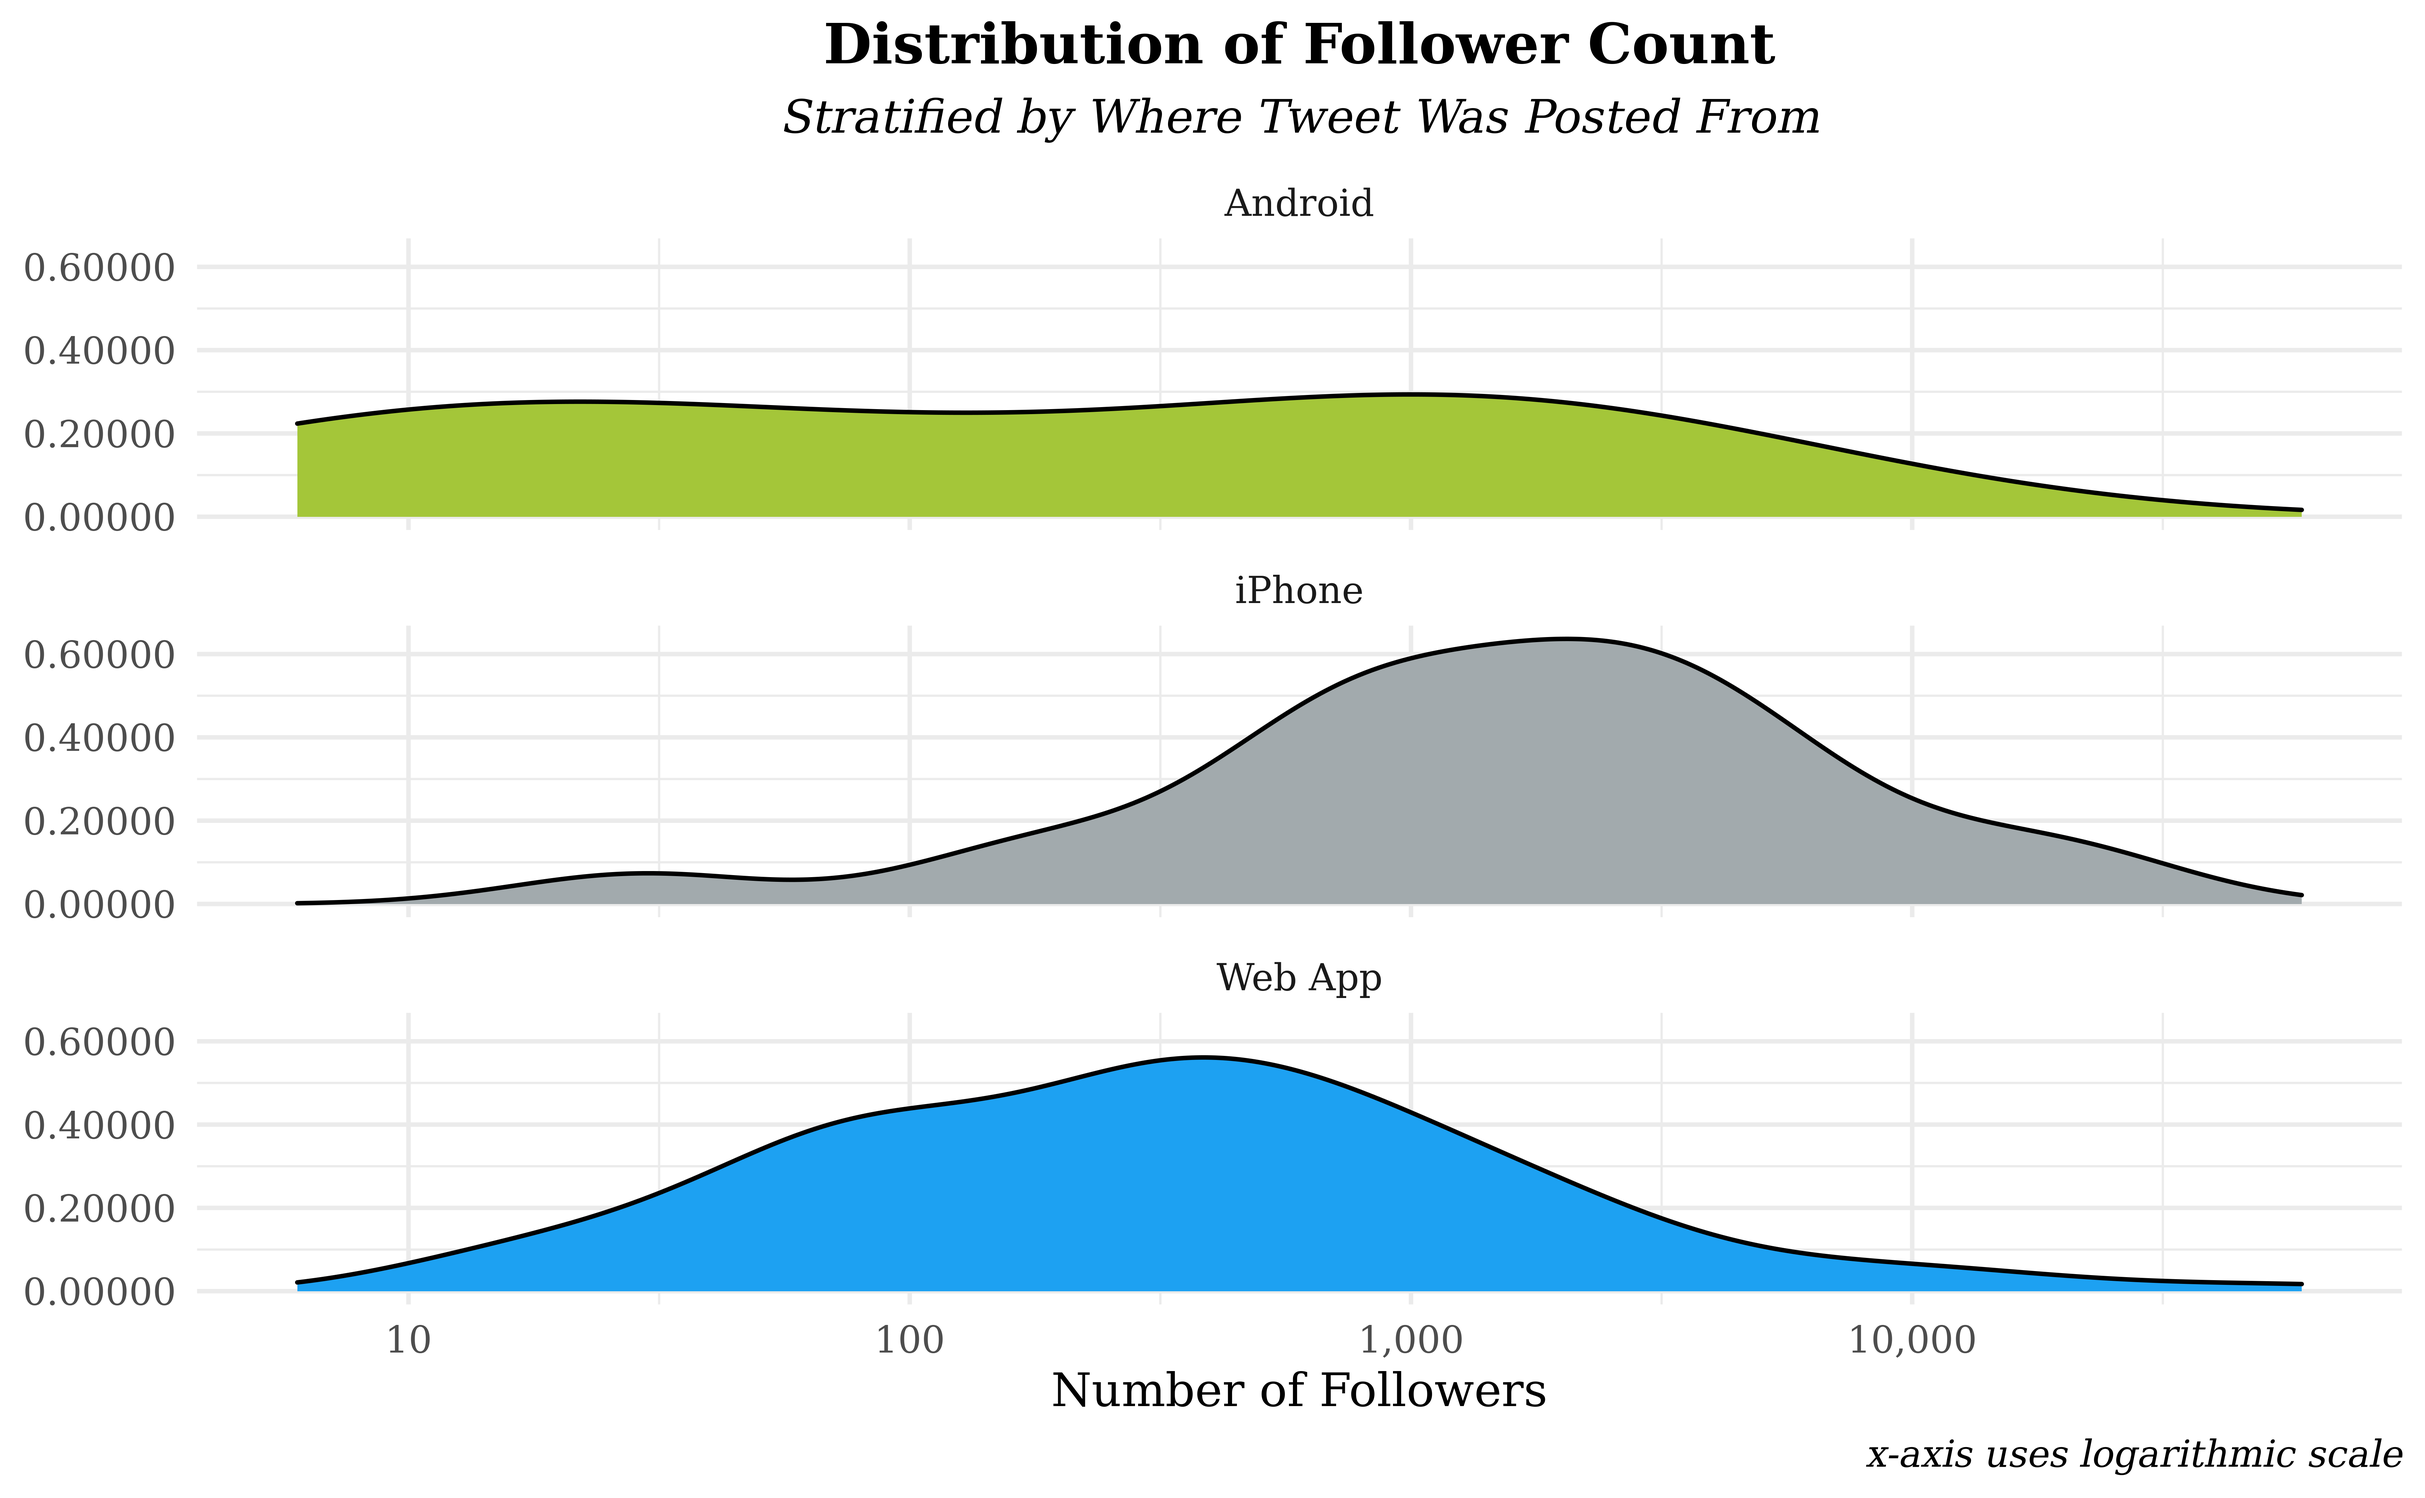
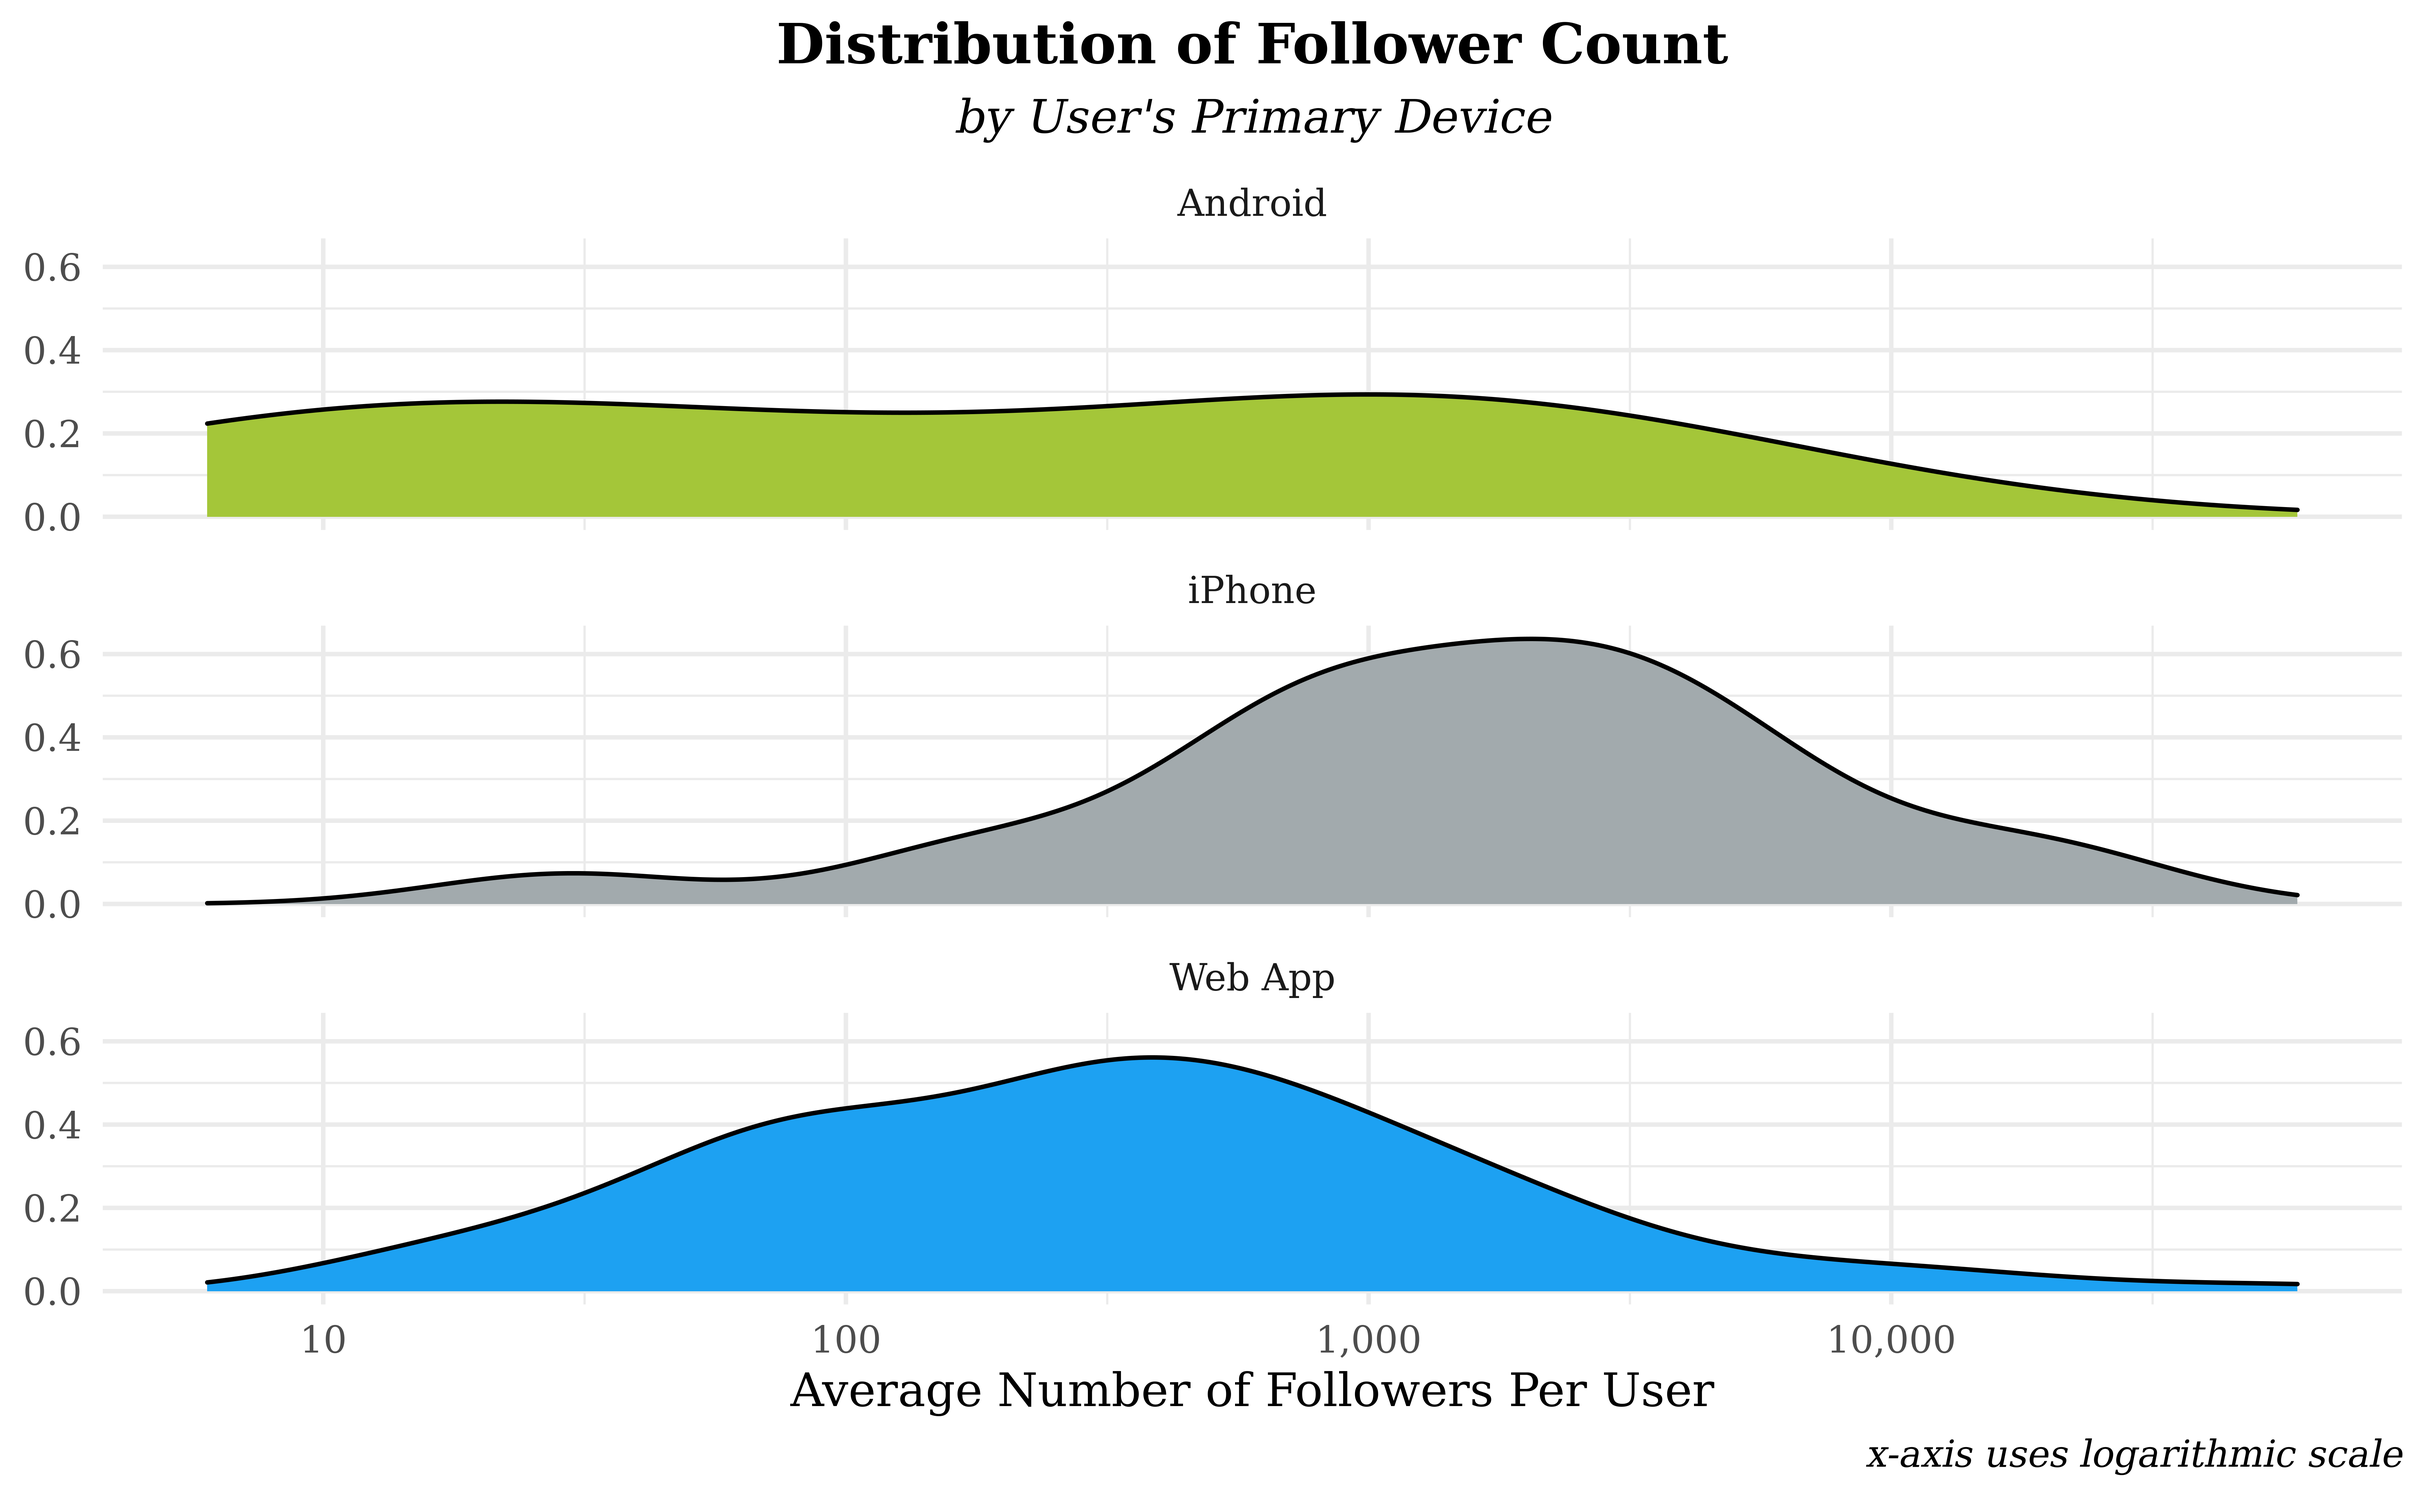
Edited labels on Q2 plots

diff --git a/README.md b/README.md
@@ -507,7 +507,7 @@ ggplot(data = tweets_device, aes(x = like_count, fill = devicetype)) +
   scale_x_log10() +
   labs(
     title = "Distribution of Likes",
-    subtitle = "Stratified by Where Tweet Was Posted From",
+    subtitle = "by Device Tweet Was Posted From",
     caption = "x-axis uses logarithmic scale (tweets with 0 likes are ommited)",
     x = "Number of Likes",
     y = NULL 
@@ -536,12 +536,13 @@ ggplot(
   theme_minimal() +
   scale_x_log10(labels = label_number(big.mark = ",")) +
   scale_fill_manual(values = c("#a4c639", "#A2AAAD", "#1DA1F2")) +
-  scale_y_continuous(labels = label_number(accuracy = .00001)) +
+  scale_y_continuous(labels = label_number(accuracy = .1)) +
   labs(
     title = "Distribution of Follower Count",
-    subtitle = "Stratified by Where Tweet Was Posted From",
-    x = "Number of Followers",
-    y = NULL, caption = "x-axis uses logarithmic scale"
+    subtitle = "by User's Primary Device",
+    caption = "x-axis uses logarithmic scale", 
+    x = "Average Number of Followers Per User",
+    y = NULL
   ) +
   theme(
     plot.title = element_text(hjust = 0.5, face = "bold"),
